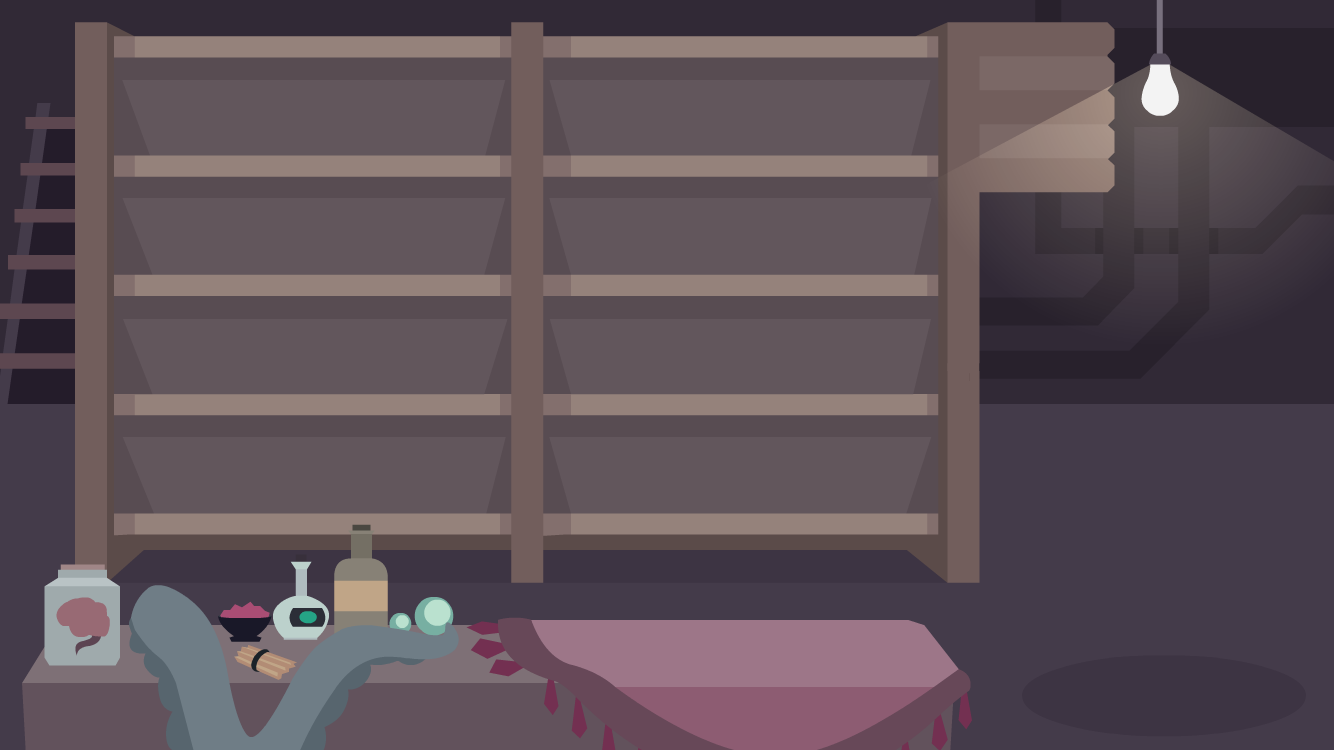
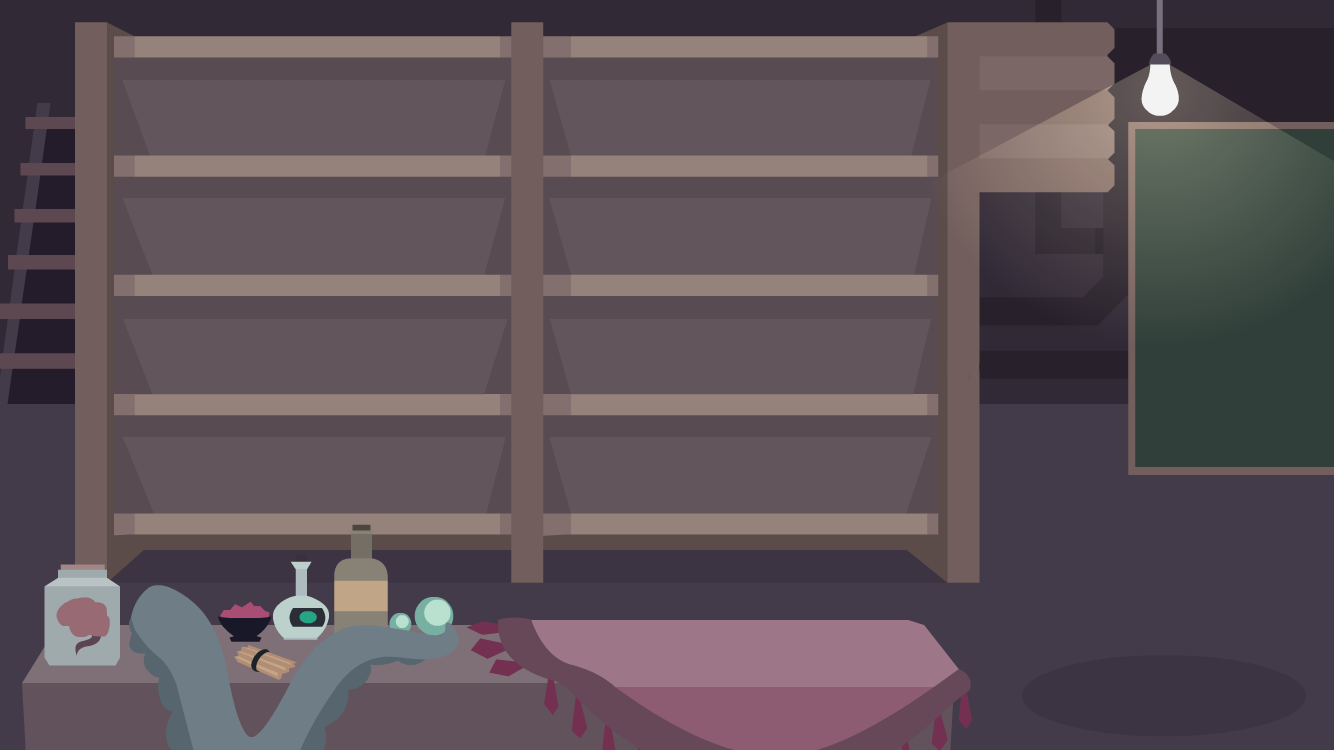
added a list of all current attributes

Changed region(s): [[0.8298, 0.1533, 1.0, 0.644]]

diff --git a/js/PlayState.js b/js/PlayState.js
@@ -114,6 +114,8 @@ var PlayState = {
         flav3 = game.add.text(990, 94, '', uiStyle);
         flav4 = game.add.text(990, 128, '', uiStyle);
         flav5 = game.add.text(990, 162, '', uiStyle);
+
+        attributes = game.add.text(1143, 135, '', chalkStyle);
 	},
 
 	openBook: function(sprite, pointer){
@@ -121,7 +123,6 @@ var PlayState = {
 	},
 
 	update: function() {
-	    //if (Book.isOpen && game.inpu)
 
 	    if (closedBook.animations.currentAnim != null && closedBook.animations.currentAnim.isPlaying){
 
@@ -146,6 +147,13 @@ var PlayState = {
 	        square.tint = PlayState.hexFromArray(currentColor);
 	    }
 	   
+        attributes.text = "";
+
+        if (totalIngred > 0) {
+            attributes.text += PlayState.colorStringFromArray(currentColor) + '\n';
+        }
+        attributes.text += flavors_string;
+        attributes.text += effects_string;
 	},
 	
 	render: function() {
@@ -285,6 +293,28 @@ var PlayState = {
 	    return [h,s,v];
 	},
 
+	amountFromNum: function (num) {
+	    switch(num) {
+            case 1:
+                return "Mildly";
+                break;
+            case 2:
+                return "Reasonably";
+                break;
+            case 3:
+                return "Very";
+                break;
+            case 4:
+                return "Extremely";
+                break;
+            case 5:
+                return "Irresponsibly";
+                break;
+            default:
+                return "";
+	    }
+	},
+
 	colorStringFromArray: function (arr) {
 	    var hsv = PlayState.hsvFromArray(arr);
 	    var hue = hsv[0];
@@ -294,38 +324,41 @@ var PlayState = {
 	    var col;
 
 	    if (hue < 13){
-	        col = 'red';
+	        col = 'Red';
 	    }
 	    else if (hue < 52) {
-	        col = 'orange';
+	        col = 'Orange';
 	    }
 	    else if (hue < 66) {
-	        col = 'yellow';
+	        col = 'Yellow';
 	    }
 	    else if (hue < 159) {
-	        col = 'green';
+	        col = 'Green';
 	    }
 	    else if (hue < 255) {
-	        col = 'blue';
+	        col = 'Blue';
 	    }
 	    else if (hue < 307) {
-	        col = 'purple';
+	        col = 'Purple';
 	    }
 	    else {
-	        col = 'red';
+	        col = 'Red';
 	    }
 
 	    if (val < 60){
-	        if (col === 'orange' || col === 'yellow'){
-	            col = 'brown';
+	        if (col === 'Orange' || col === 'Yellow'){
+	            col = 'Brown';
 	        }
 	    }
 
+	    if (sat < 15){
+            col = 'Gray';
+	    }
 	    if (val < 10){
-	        col = 'black';
+	        col = 'Black';
 	    }
 	    if (val > 95 && sat < 5) {
-	        col = 'white';
+	        col = 'White';
 	    }
 
 	    return col;
@@ -370,6 +403,54 @@ var PlayState = {
 	            }
 	        }
 
+            var num_spicy = 0;
+            var num_savory = 0;
+            var num_sweet = 0;
+            var num_salty = 0;
+            var num_sour = 0;
+            var num_bitter = 0;
+
+            for (var i = 0; i < flavorList.length; i++){
+                if (flavorList[i] === "spicy") {
+                    num_spicy++;
+                }
+                if (flavorList[i] === "savory") {
+                    num_savory++;
+                }
+                if (flavorList[i] === "sweet") {
+                    num_sweet++;
+                }
+                if (flavorList[i] === "salty") {
+                    num_salty++;
+                }
+                if (flavorList[i] === "sour") {
+                    num_sour++;
+                }
+                if (flavorList[i] === "bitter") {
+                    num_bitter++;
+                }
+            }
+
+            flavors_string = "";
+
+            if (num_spicy > 0){
+                flavors_string += PlayState.amountFromNum(num_spicy) + " Spicy\n";
+            }
+            if (num_savory > 0){
+                flavors_string += PlayState.amountFromNum(num_savory) + " Savory\n";
+            }
+            if (num_sweet > 0){
+                flavors_string += PlayState.amountFromNum(num_sweet) + " Sweet\n";
+            }
+            if (num_salty > 0){
+                flavors_string += PlayState.amountFromNum(num_salty) + " Salty\n";
+            }
+            if (num_sour > 0){
+                flavors_string += PlayState.amountFromNum(num_sour) + " Sour\n";
+            }
+            if (num_bitter > 0){
+                flavors_string += PlayState.amountFromNum(num_bitter) + " Bitter\n";
+            }
 
 
 	        ///////// COLOR
@@ -619,6 +700,31 @@ var PlayState = {
 
             PlayState.updateFlavorUI();
 
+            effects_string = "";
+            for (var i = 0; i < effects.length; i++){
+                if (effects[i] === "dirt"){
+                    effects_string += "Dirt\n";
+                }
+                if (effects[i] === "tentacles"){
+                    effects_string += "Tentacle Forming\n";
+                }
+                if (effects[i] === "poison"){
+                    effects_string += "Poisonous\n";
+                }
+                if (effects[i] === "explosive"){
+                    effects_string += "Explosive\n";
+                }
+                if (effects[i] === "mind_control"){
+                    effects_string += "Mind Control\n";
+                }
+                if (effects[i] === "implosion"){
+                    effects_string += "Implosion\n";
+                }
+                if (effects[i] === "slimification"){
+                    effects_string += "Slimification\n";
+                }
+            }
+
 	        ////////// DEBUG PRINT
 
 	        console.log('-------------');
@@ -634,6 +740,7 @@ var PlayState = {
 	            console.log(' - '+effects[i]);
 	        }
 	        console.log('-----');
+
 	    }
 
 		item.destroy();

diff --git a/index.html b/index.html
@@ -34,6 +34,7 @@
     var bookTitle = { font: "32px Verdana", fontWeight: 'bold', fill:"#4D3F3E", wordWrap: true, align:'left', wordWrapWidth:1334/64*21};
     var bookStyle = { font: "32px Verdana", fill:"#4D3F3E", wordWrap: true, align:'left', wordWrapWidth:1334/64*21};
     var uiStyle = { font: "22px corbel", fontWeight: 'bold', fill:"#4D3F3E", boundsAlignH: "left", boundsAlignV: "middle", wordWrap: false };
+    var chalkStyle = { font: "16px corbel", fill:"#FFF", boundsAlignH: "left", boundsAlignV: "middle", wordWrap: false };
 
     //PLAY STATE VARIABLES
     var group;
@@ -78,6 +79,10 @@
     var flav4;
     var flav5;
 
+    var attributes;
+
+    var flavors_string = "";
+    var effects_string = "";
 
     // items on the left page
     var items_left = [];

diff --git a/js/Ingredients.js b/js/Ingredients.js
@@ -186,7 +186,7 @@ var Ingredients = {
 			effects: false
 		},
 		name: 'Horrible Dirt',
-		color: [128,98,87],
+		color: [86,78,60],
 		prettycolor: 'Brown',
 		flavor: 'flavorless',
 		effects: { type:'dirt', value: 1 },
